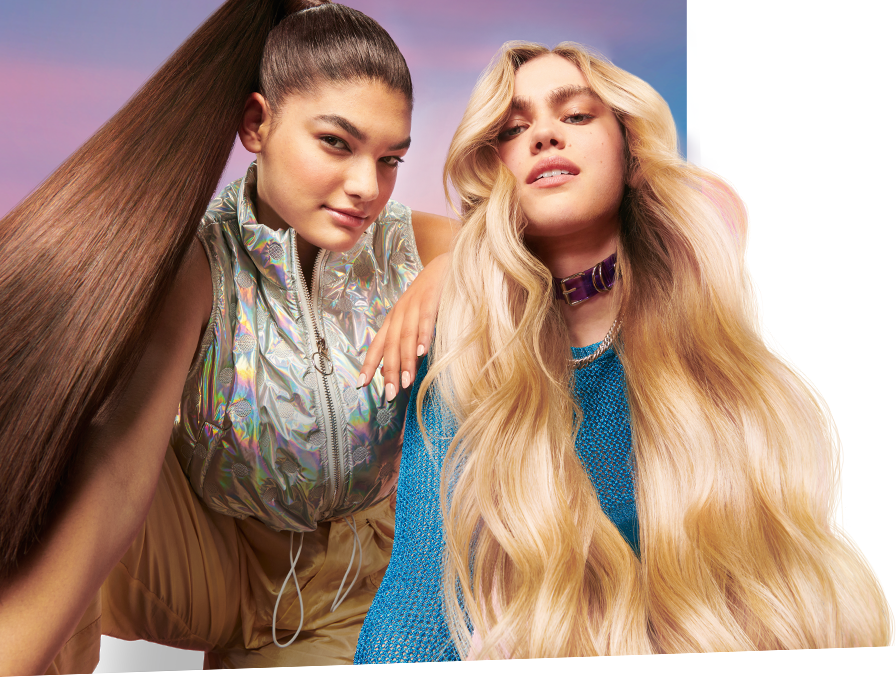
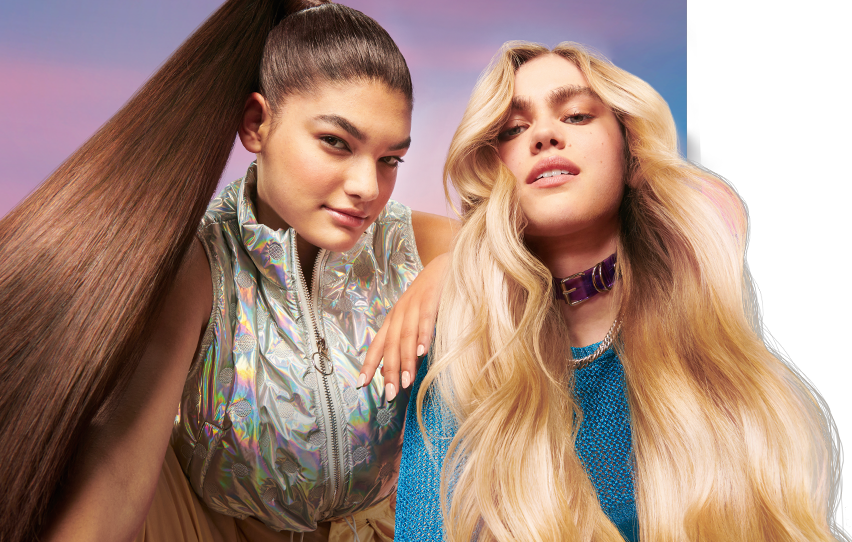
hero layout

diff --git a/style.scss b/style.scss
@@ -168,80 +168,96 @@ $padding--XXL: 6rem;
   }
   // reset end
   .es-hero {
-    min-height: 300px;
+    //min-height: 300px;
     position: relative;
+    //background-image: url("#{$file-path}bg-juicy-pineapple#{$img-format}");
+    //@include bg-cover(right bottom);
+    @include flex(column-reverse, center);
     &__left {
-      background-image: url("#{$file-path}bg-hero-L#{$img-format}");
-      @include bg-cover(left bottom);
-      @include flex(column, center);
-      color: white;
-      text-transform: uppercase;
-      font-weight: $fw--bold;
-      padding: $padding--M;
-      &--logo {
-        max-width: 200px;
-        margin-inline: auto;
-      }
-      &--new {
-        background-color: $color--accent-1;
-        max-width: fit-content;
-        padding: 0.2rem;
-        transform: rotate(355deg) skew(-5deg, 0deg);
-      }
-      &--title {
-        font-size: clamp(2.5rem, 2.3618rem + 0.6316vw, 2.875rem);
-        min-width: 10ch;
-        text-shadow: $txt-shadow;
-      }
-      &--subtitle {
-        font-size: clamp(1.125rem, 1.0789rem + 0.2105vw, 1.25rem);
-        text-shadow: $txt-shadow;
-        text-align: center;
-      }
-    }
-    &__right {
-      background-image: url("#{$file-path}bg-hero-R#{$img-format}");
-      @include bg-cover(right bottom);
+      background-image: url("#{$file-path}bg-hero-desktop#{$img-format}");
+      @include bg-cover(left);
+      min-height: 300px;
       @include flex(column, flex-end);
-      position: relative;
-      min-height: 500px;
+      
       &--headline {
         color: white;
         font-family: $ff--gotham;
         text-transform: uppercase;
         text-align: center;
         font-weight: 700;
+        line-height: 0.9;
         // font-size: clamp(1.5rem, 0.8553rem + 2.9474vw, 3.25rem);
         font-size: 36px;
         text-shadow: $txt-shadow;
         transform: rotate(355deg) skew(-5deg, 0deg);
-        position: absolute;
-        right: 1rem;
-        top: 1.5rem;
-        animation: glow 2s ease-in-out infinite alternate;
+        & span {
+          animation: glow 2s ease-in-out infinite alternate;
+        }
+      }
+      &--smaller {
+        font-size: 16px;
+        margin-top: 4px;
+        margin-bottom: 50px;
       }
     }
-    &__middle {
-      display: flex;
-      flex-direction: column;
-      align-items: flex-start;
-      max-width: fit-content;
-      position: absolute;
-      bottom: 0;
-      left: 0;
+
+    &__right {
+      background-image: url("#{$file-path}bg-R-juicy-pineapple#{$img-format}");
+      @include bg-cover(right);
+      @include flex(column, center);
+      color: white;
+      text-transform: uppercase;
+      font-weight: $fw--bold;
+      &--logo {
+        max-width: 300px;
+        margin-inline: auto;
+        padding: $padding--M;
+      }
+      &--container {
+        @include flex(column, center);
+        margin-left: auto;
+        position: relative;
+        padding-left: $padding--XL;
+        padding-bottom: $padding--S;
+      }
+      &--new {
+        background-color: $color--accent-1;
+        max-width: fit-content;
+        padding: 0.2rem;
+        transform: rotate(355deg) skew(-5deg, 0deg);
+        font-family: $ff--gotham;
+        position: absolute;
+        top: 0px;
+        left: 110px;
+      }
       &--badge {
         max-width: 80px;
-        margin-left: 20px;
+        position: absolute;
+        z-index: 1;
+        top: 84px;
+        left: 8px;
       }
       &--packshot {
-        max-width: 270px;
+        max-width: 300px;
         scale: 1;
         transition: all 200ms ease-in-out;
         &:hover {
           scale: 1.05;
         }
       }
+      // &--title {
+      //   font-size: clamp(2.5rem, 2.3618rem + 0.6316vw, 2.875rem);
+      //   min-width: 10ch;
+      //   text-shadow: $txt-shadow;
+      // }
+      // &--subtitle {
+      //   font-size: clamp(1.125rem, 1.0789rem + 0.2105vw, 1.25rem);
+      //   text-shadow: $txt-shadow;
+      //   text-align: center;
+      // }
     }
+    
+   
   }
   .es-benefits {
     padding: $padding--XL;
@@ -562,15 +578,15 @@ $padding--XXL: 6rem;
 @media screen and (min-width: 601px) {
   #es-RC-container {
     .es-hero {
-      @include flex(row, flex-end);
+      @include flex(row, space-evenly);
+      @include bg-cover(center);
+      background-image: url("#{$file-path}bg-hero-desktop#{$img-format}");
       &__left {
-        flex-basis: 45%;
-        &--subtitle {
-          padding-right: 8rem;
-        }
+        background-image: none;
       }
+      
       &__right {
-        flex-basis: 55%;
+        background-image: none;
         &--headline {
           top: unset;
           bottom: 3rem;

diff --git a/style.css b/style.css
@@ -26,88 +26,90 @@
   height: auto;
 }
 #es-RC-container .es-hero {
-  min-height: 300px;
   position: relative;
+  display: flex;
+  flex-direction: column-reverse;
+  justify-content: center;
 }
 #es-RC-container .es-hero__left {
-  background-image: url("./img/bg-hero-L.png");
+  background-image: url("./img/bg-hero-desktop.png");
   background-size: cover;
   background-repeat: no-repeat;
-  background-position: left bottom;
+  background-position: left;
+  min-height: 300px;
+  display: flex;
+  flex-direction: column;
+  justify-content: flex-end;
+}
+#es-RC-container .es-hero__left--headline {
+  color: white;
+  font-family: "gotham-condensed-bold", "Open Sans", sans-serif;
+  text-transform: uppercase;
+  text-align: center;
+  font-weight: 700;
+  line-height: 0.9;
+  font-size: 36px;
+  text-shadow: 4px 2px 4px #a66161;
+  transform: rotate(355deg) skew(-5deg, 0deg);
+}
+#es-RC-container .es-hero__left--headline span {
+  animation: glow 2s ease-in-out infinite alternate;
+}
+#es-RC-container .es-hero__left--smaller {
+  font-size: 16px;
+  margin-top: 4px;
+  margin-bottom: 50px;
+}
+#es-RC-container .es-hero__right {
+  background-image: url("./img/bg-R-juicy-pineapple.png");
+  background-size: cover;
+  background-repeat: no-repeat;
+  background-position: right;
   display: flex;
   flex-direction: column;
   justify-content: center;
   color: white;
   text-transform: uppercase;
   font-weight: 700;
+}
+#es-RC-container .es-hero__right--logo {
+  max-width: 300px;
+  margin-inline: auto;
   padding: 1rem;
 }
-#es-RC-container .es-hero__left--logo {
-  max-width: 200px;
-  margin-inline: auto;
+#es-RC-container .es-hero__right--container {
+  display: flex;
+  flex-direction: column;
+  justify-content: center;
+  margin-left: auto;
+  position: relative;
+  padding-left: 3rem;
+  padding-bottom: 0.5rem;
 }
-#es-RC-container .es-hero__left--new {
+#es-RC-container .es-hero__right--new {
   background-color: #0f6848;
   max-width: -moz-fit-content;
   max-width: fit-content;
   padding: 0.2rem;
   transform: rotate(355deg) skew(-5deg, 0deg);
-}
-#es-RC-container .es-hero__left--title {
-  font-size: clamp(2.5rem, 2.3618rem + 0.6316vw, 2.875rem);
-  min-width: 10ch;
-  text-shadow: 4px 2px 4px #a66161;
-}
-#es-RC-container .es-hero__left--subtitle {
-  font-size: clamp(1.125rem, 1.0789rem + 0.2105vw, 1.25rem);
-  text-shadow: 4px 2px 4px #a66161;
-  text-align: center;
-}
-#es-RC-container .es-hero__right {
-  background-image: url("./img/bg-hero-R.png");
-  background-size: cover;
-  background-repeat: no-repeat;
-  background-position: right bottom;
-  display: flex;
-  flex-direction: column;
-  justify-content: flex-end;
-  position: relative;
-  min-height: 500px;
-}
-#es-RC-container .es-hero__right--headline {
-  color: white;
   font-family: "gotham-condensed-bold", "Open Sans", sans-serif;
-  text-transform: uppercase;
-  text-align: center;
-  font-weight: 700;
-  font-size: 36px;
-  text-shadow: 4px 2px 4px #a66161;
-  transform: rotate(355deg) skew(-5deg, 0deg);
   position: absolute;
-  right: 1rem;
-  top: 1.5rem;
-  animation: glow 2s ease-in-out infinite alternate;
+  top: 0px;
+  left: 110px;
 }
-#es-RC-container .es-hero__middle {
-  display: flex;
-  flex-direction: column;
-  align-items: flex-start;
-  max-width: -moz-fit-content;
-  max-width: fit-content;
-  position: absolute;
-  bottom: 0;
-  left: 0;
-}
-#es-RC-container .es-hero__middle--badge {
+#es-RC-container .es-hero__right--badge {
   max-width: 80px;
-  margin-left: 20px;
+  position: absolute;
+  z-index: 1;
+  top: 84px;
+  left: 8px;
 }
-#es-RC-container .es-hero__middle--packshot {
-  max-width: 270px;
+#es-RC-container .es-hero__right--packshot {
+  max-width: 300px;
   scale: 1;
   transition: all 200ms ease-in-out;
 }
-#es-RC-container .es-hero__middle--packshot:hover {
+#es-RC-container .es-hero__right--packshot:hover {
   scale: 1.05;
 }
 #es-RC-container .es-benefits {
@@ -562,16 +564,17 @@
   #es-RC-container .es-hero {
     display: flex;
     flex-direction: row;
-    justify-content: flex-end;
+    justify-content: space-evenly;
+    background-size: cover;
+    background-repeat: no-repeat;
+    background-position: center;
+    background-image: url("./img/bg-hero-desktop.png");
   }
   #es-RC-container .es-hero__left {
-    flex-basis: 45%;
-  }
-  #es-RC-container .es-hero__left--subtitle {
-    padding-right: 8rem;
+    background-image: none;
   }
   #es-RC-container .es-hero__right {
-    flex-basis: 55%;
+    background-image: none;
   }
   #es-RC-container .es-hero__right--headline {
     top: unset;

diff --git a/index.html b/index.html
@@ -21,25 +21,26 @@
 <body>
   <section id="es-RC-container">
     <section class="es-hero">
-      <header class="es-hero__left">
-        <img class="es-hero__left--logo" src="./img/garnier-fructis-logo.png" />
-        <p class="es-hero__left--new">nowość</p>
-        <h1 class="es-hero__left--title">hair drink</h1>
-        <p class="es-hero__left--subtitle">
-          niesamowity blask włosów w 10s, dzięki błyskawicznej odżywce
-          lamellarnej
-        </p>
-      </header>
 
-      <div class="es-hero__right">
-        <div class="es-hero__middle">
-          <img class="es-hero__middle--badge" src="./img/badge-97-percent-natural-origin.png" />
-          <img class="es-hero__middle--packshot" src="./img/hair-drink-packshot.png" />
-        </div>
-        <div class="es-hero__right--headline">
-          <p>10x gładsze włosy* </br>efekt tafli wody</p>
+      <div class="es-hero__left">
+        <div class="es-hero__left--headline">
+          <p>hair food</p>
+          <p>48h <span>BLASKU*</span></p>
+          <p class="es-hero__left--smaller">2x mniej rozdwojonych końcówek*</p>
         </div>
       </div>
+
+      <header class="es-hero__right">
+        <img class="es-hero__right--logo" src="./img/garnier-fructis-logo.png" />
+        <div class="es-hero__right--container">
+          <p class="es-hero__right--new">nowość</p>
+          <img class="es-hero__right--badge" src="./img/badge-97-percent-natural-origin.png" />
+          <img class="es-hero__right--packshot" src="./img/packshot.png" />
+        </div>
+        
+      </header>
+
+      
     </section>
 
     <section class="es-benefits">
